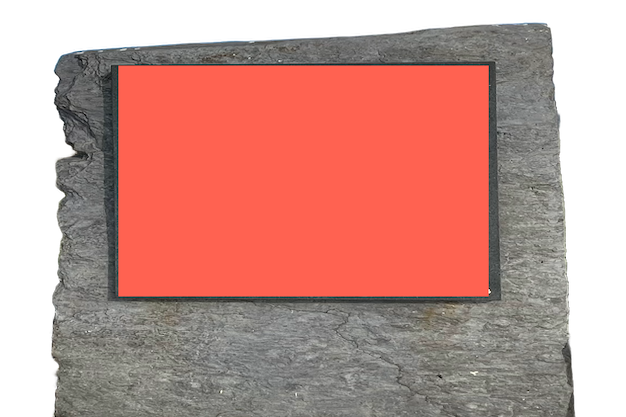
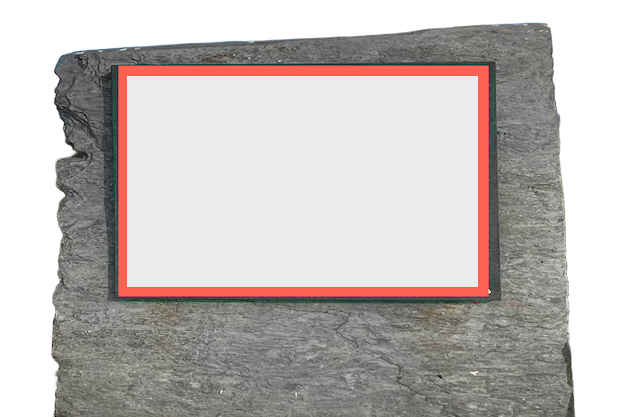
add and style advertising-board.png

Changed region(s): [[0.1821, 0.1559, 0.7891, 0.6859]]

diff --git a/home/templates/home/index.html b/home/templates/home/index.html
@@ -20,6 +20,7 @@
             <video autoplay loop muted class="background-video d-none d-md-block">
                 <source src="{% static 'home/videos/waterville_boardwalk_gallery_directions_desktop.mp4' %}" type="video/mp4">
             </video>            
+
             <div class="overlay">
                 <h1 class="catch-phrase"><strong>Nature and Wildlife Photography
                     <br>
@@ -33,27 +34,33 @@
                     <span>Printed Wall Art</span> - 
                     <span>Gifts</span>
                 </div>
-                <div class="lower-content">
+            </div>
 
-                    <!-- Digital Sign Section -->
-                    <article class="digital-sign" aria-label="image of information board with special offer and timer">
-                        <h2 class="mb-0"><strong>Special Offer</strong></h2>
-                        <img src="{% static 'home/images/advertising-board.png' %}" alt="Information Board" class="info-board">
-                        <div class="sign-content">
-                            <div class="sign-upper">
-                                <p>{{ special_offer.text }}</p>
+            <!-- Lower Content with Bootstrap Grid -->
+            <div class="container-fluid lower-content">
+                <div class="row align-items-end">
+                    <!-- Digital Sign on Left -->
+                    <div class="col-12 col-md-6 text-center">
+                        <article class="digital-sign" aria-label="Information board with special offer and timer">
+                            <img src="{% static 'home/images/advertising-board.png' %}" alt="Information Board" class="info-board">
+                            <div class="sign-content">
+                                <div class="sign-upper">
+                                    <p>{{ special_offer.text }}</p>
+                                </div>
+                                <div class="sign-lower">
+                                    <h2 id="countdown-timer"></h2>
+                                </div>
                             </div>
-                            <div class="sign-lower">
-                                <h2 id="countdown-timer"></h2>
-                            </div>
-                        </div>
-                    </article>
+                        </article>
+                    </div>
 
-                    <!-- Road sign page navigation -->
-                    <article class="road-signs">
-                        <img id="gallery-sign" src="{% static 'home/images/gallery_sign.png' %}" alt="This way to the gallery">
-                        <img id="about-sign" src="{% static 'home/images/about_sign.png' %}" alt="About Us">
-                    </article>
+                    <!-- Road Signs on Right -->
+                    <div class="col-12 col-md-6 text-center">
+                        <article class="road-signs">
+                            <img id="gallery-sign" src="{% static 'home/images/gallery_sign.png' %}" alt="This way to the gallery">
+                            <img id="about-sign" src="{% static 'home/images/about_sign.png' %}" alt="About Us">
+                        </article>
+                    </div>
                 </div>
             </div>
         </section>

diff --git a/home/static/home/css/home.css b/home/static/home/css/home.css
@@ -30,20 +30,20 @@ video.background-video {
 
 /* Logo & Catchphrase */
 .catch-phrase {
+    margin-bottom: 10px;
+    padding: 0 5px;
     font-size: 2.0rem;
-    margin-top: 10px;
 }
 
 /* Product Range */
 .product-range {
-    font-size: 1.2rem;
+    font-size: 1rem;
     margin-top: 20px;
 }
 
 /* Lower Content Section */
 .lower-content {
-    position: absolute;
-    bottom: 10%;
+    bottom: 0;
     width: 100%;
     display: flex;
     justify-content: space-between;
@@ -52,56 +52,57 @@ video.background-video {
 
 /* Digital Sign Styling */
 .digital-sign {
-    position: relative;
-    width: 500px;
-    margin: 0 2rem;
+    position: absolute;
+    width: 50%;
+    bottom: 0;
+    left: 0;
 }
 
 img.info-board {
-    height: 250px;
-    width: 100%;
-    display: block;
+    position: relative;
+    height: 10rem;
+    display: inline-block;
+    bottom: 0;
 }
 
 .sign-content {
     position: absolute;
-    top: 25%;
-    left: 50%;
+    top: 20%;
+    left: 18%;
     width: 80%;
-    transform: translate(-50%, -50%);
     text-align: center;
-    color: black;
-}
-
-.sign-upper h2 {
-    font-size: 1.8rem;
-}
-
-.sign-upper p {
-    font-size: 1.2rem;
-}
-
-.sign-lower h2 {
-    font-size: 1.5rem;
-    font-weight: bold;
-    margin-top: 10px;
     color: red;
 }
 
+.sign-upper p {
+    display: flex;
+    flex-direction: column;
+    width: 75%;
+    font-size: 1.5rem;
+    font-weight: bold;
+}
+
+.sign-lower h2 {
+    font-size: 1.2rem;
+    font-weight: bold;
+}
+
 h2#countdown-timer {
-    margin-top: 25rem;
+    margin-top: 2.5rem;
 }
 
 /* Road Signs */
 .road-signs {
+    position: absolute;
     display: flex;
     flex-direction: column;
-    margin-top: auto;
-    gap: 20px;
+    bottom: 30px;
+    right: 20px;
+    gap: 15px;
 }
 
 .road-signs img {
-    width: 100px;
+    width: 6rem;
     cursor: pointer;
 }
 
@@ -141,12 +142,31 @@ h2#countdown-timer {
 /* Responsive Adjustments */
 @media (min-width: 768px) {
 
+    img.info-board {
+        height: 15rem;
+        width: fit-content;
+    }
+
+    .sign-content {
+        top: 20%;
+        width: 80%;
+    }
+    
+    .sign-upper p {
+        font-size: 1.5rem;
+    }
+    
+    .sign-lower h2 {
+        font-size: 1.2rem;
+        font-weight: bold;
+    }
+    
     h2#countdown-timer {
-        margin-top: 30rem;
+        margin-top: 2.5rem;
     }
 
     .road-signs img {
-        width: 200px;
+        width: 10rem;
     }
 }
 
@@ -155,15 +175,15 @@ h2#countdown-timer {
     .catch-phrase {
         font-size: 3.0rem;
     }
-}
 
-@media (min-width: 1200px) {
-
-    video.background-video {
-        margin-top: 1.5rem;
+    img.info-board {
+        display: block;
+        margin-left: 1.5rem;
     }
-    
-    .overlay {
-        margin-top: 1.5rem;
+
+    .sign-content {
+        top: 20%;
+        left: 10%;
+        width: 80%;
     }
 }
